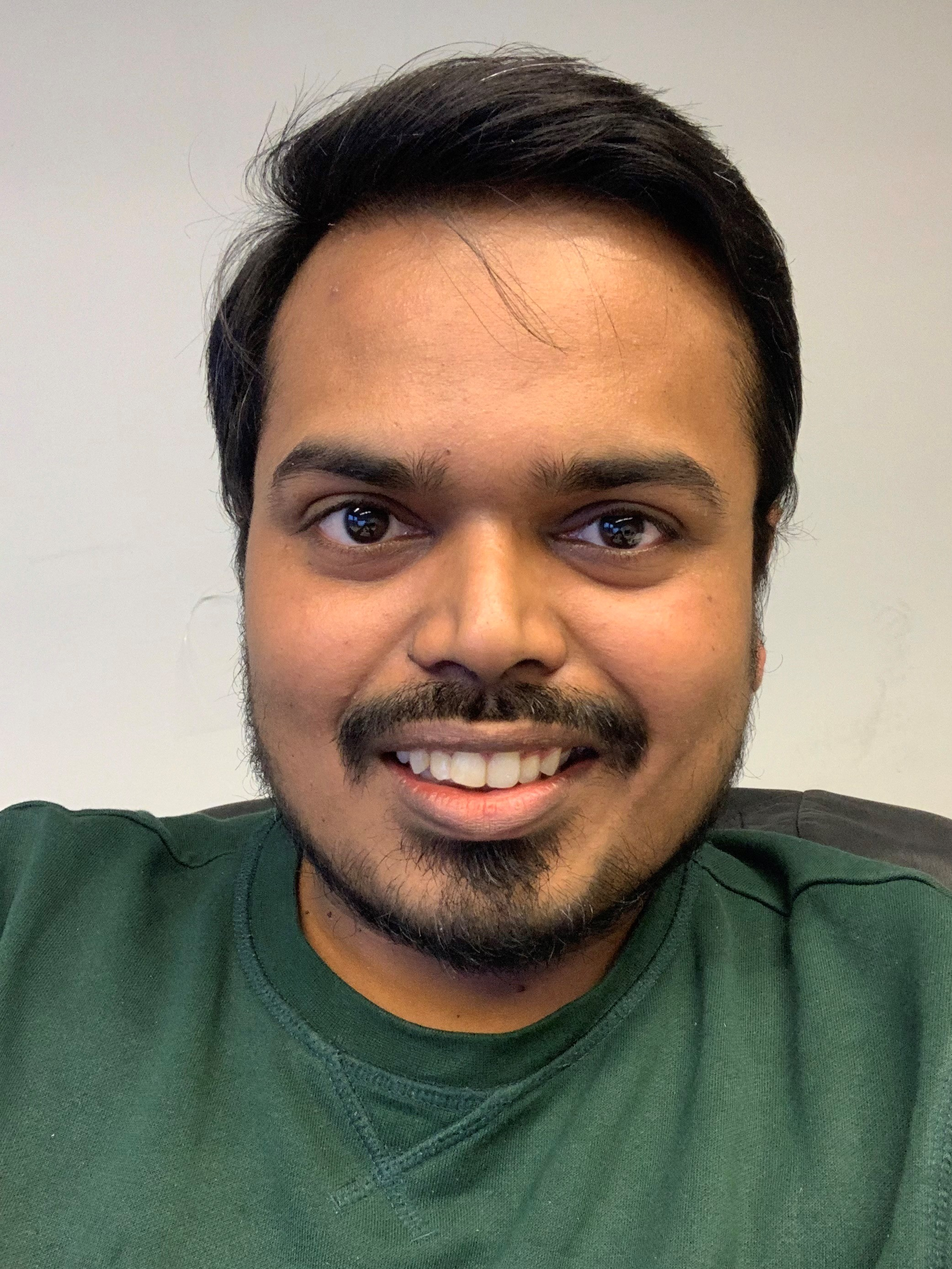
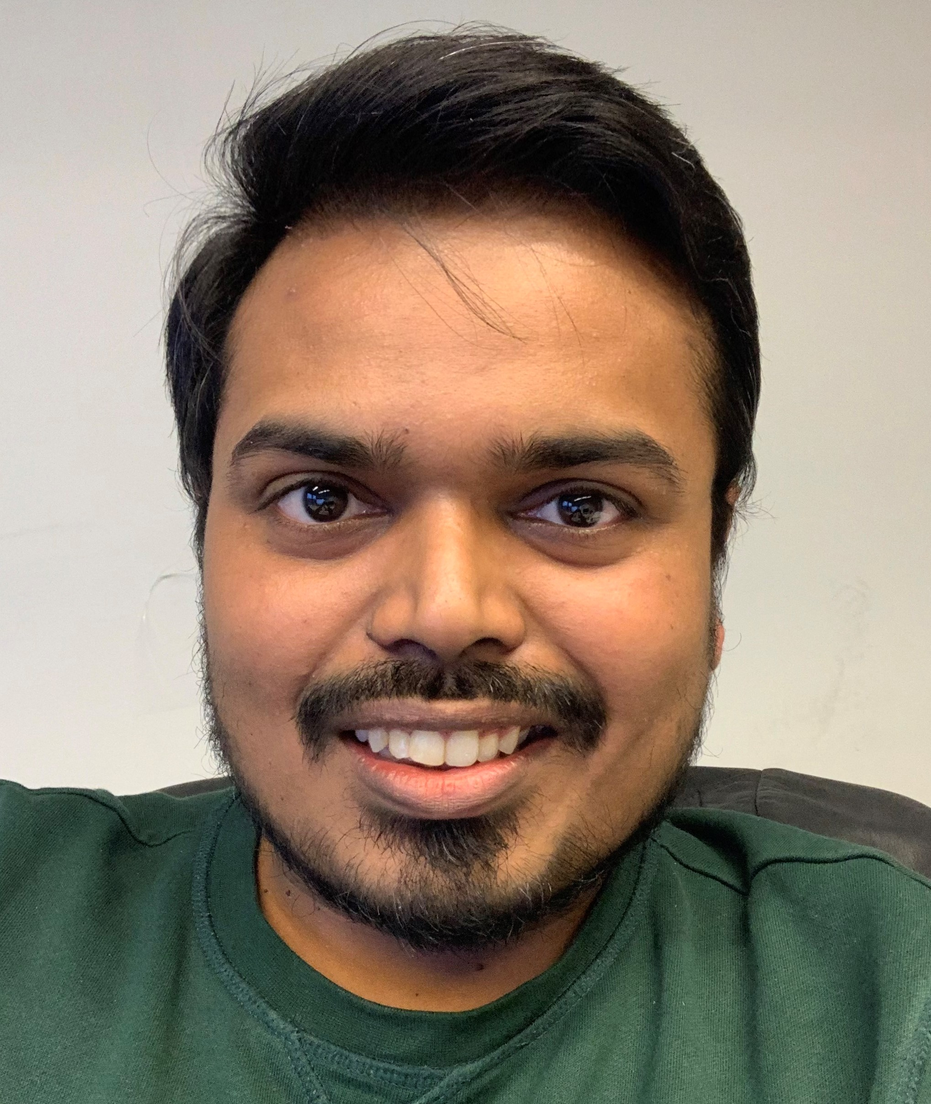
profile Update

diff --git a/publication/articled4w/index.html b/publication/articled4w/index.html
@@ -1009,7 +1009,7 @@
   <div class="media author-card content-widget-hr">
     
       
-      <a href="https://OnkaraJadhav.github.io"><img class="avatar mr-3 avatar-circle" src="/authors/admin/avatar_hua0c68d9c492ea0697d1db74b5d6e4a3f_1517692_270x270_fill_q75_lanczos_center.jpg" alt="Onkar Jadhav"></a>
+      <a href="https://OnkaraJadhav.github.io"><img class="avatar mr-3 avatar-circle" src="/authors/admin/avatar_hua8f31faf9ba0df61af456fd7a1b7699f_1102656_270x270_fill_q75_lanczos_center.jpg" alt="Onkar Jadhav"></a>
     
 
     <div class="media-body">

diff --git a/publication/articleetna/index.html b/publication/articleetna/index.html
@@ -1007,7 +1007,7 @@
   <div class="media author-card content-widget-hr">
     
       
-      <a href="https://OnkaraJadhav.github.io"><img class="avatar mr-3 avatar-circle" src="/authors/admin/avatar_hua0c68d9c492ea0697d1db74b5d6e4a3f_1517692_270x270_fill_q75_lanczos_center.jpg" alt="Onkar Jadhav"></a>
+      <a href="https://OnkaraJadhav.github.io"><img class="avatar mr-3 avatar-circle" src="/authors/admin/avatar_hua8f31faf9ba0df61af456fd7a1b7699f_1102656_270x270_fill_q75_lanczos_center.jpg" alt="Onkar Jadhav"></a>
     
 
     <div class="media-body">

diff --git a/publication/articlejmi/index.html b/publication/articlejmi/index.html
@@ -1007,7 +1007,7 @@
   <div class="media author-card content-widget-hr">
     
       
-      <a href="https://OnkaraJadhav.github.io"><img class="avatar mr-3 avatar-circle" src="/authors/admin/avatar_hua0c68d9c492ea0697d1db74b5d6e4a3f_1517692_270x270_fill_q75_lanczos_center.jpg" alt="Onkar Jadhav"></a>
+      <a href="https://OnkaraJadhav.github.io"><img class="avatar mr-3 avatar-circle" src="/authors/admin/avatar_hua8f31faf9ba0df61af456fd7a1b7699f_1102656_270x270_fill_q75_lanczos_center.jpg" alt="Onkar Jadhav"></a>
     
 
     <div class="media-body">

diff --git a/publication/conferenceecmi/index.html b/publication/conferenceecmi/index.html
@@ -1001,7 +1001,7 @@
   <div class="media author-card content-widget-hr">
     
       
-      <a href="https://OnkaraJadhav.github.io"><img class="avatar mr-3 avatar-circle" src="/authors/admin/avatar_hua0c68d9c492ea0697d1db74b5d6e4a3f_1517692_270x270_fill_q75_lanczos_center.jpg" alt="Onkar Jadhav"></a>
+      <a href="https://OnkaraJadhav.github.io"><img class="avatar mr-3 avatar-circle" src="/authors/admin/avatar_hua8f31faf9ba0df61af456fd7a1b7699f_1102656_270x270_fill_q75_lanczos_center.jpg" alt="Onkar Jadhav"></a>
     
 
     <div class="media-body">

diff --git a/publication/confpapermsc1/index.html b/publication/confpapermsc1/index.html
@@ -1008,7 +1008,7 @@
   <div class="media author-card content-widget-hr">
     
       
-      <a href="https://OnkaraJadhav.github.io"><img class="avatar mr-3 avatar-circle" src="/authors/admin/avatar_hua0c68d9c492ea0697d1db74b5d6e4a3f_1517692_270x270_fill_q75_lanczos_center.jpg" alt="Onkar Jadhav"></a>
+      <a href="https://OnkaraJadhav.github.io"><img class="avatar mr-3 avatar-circle" src="/authors/admin/avatar_hua8f31faf9ba0df61af456fd7a1b7699f_1102656_270x270_fill_q75_lanczos_center.jpg" alt="Onkar Jadhav"></a>
     
 
     <div class="media-body">

diff --git a/publication/confpapermsc2/index.html b/publication/confpapermsc2/index.html
@@ -1009,7 +1009,7 @@
   <div class="media author-card content-widget-hr">
     
       
-      <a href="https://OnkaraJadhav.github.io"><img class="avatar mr-3 avatar-circle" src="/authors/admin/avatar_hua0c68d9c492ea0697d1db74b5d6e4a3f_1517692_270x270_fill_q75_lanczos_center.jpg" alt="Onkar Jadhav"></a>
+      <a href="https://OnkaraJadhav.github.io"><img class="avatar mr-3 avatar-circle" src="/authors/admin/avatar_hua8f31faf9ba0df61af456fd7a1b7699f_1102656_270x270_fill_q75_lanczos_center.jpg" alt="Onkar Jadhav"></a>
     
 
     <div class="media-body">

diff --git a/publication/preprint/index.html b/publication/preprint/index.html
@@ -1007,7 +1007,7 @@
   <div class="media author-card content-widget-hr">
     
       
-      <a href="https://OnkaraJadhav.github.io"><img class="avatar mr-3 avatar-circle" src="/authors/admin/avatar_hua0c68d9c492ea0697d1db74b5d6e4a3f_1517692_270x270_fill_q75_lanczos_center.jpg" alt="Onkar Jadhav"></a>
+      <a href="https://OnkaraJadhav.github.io"><img class="avatar mr-3 avatar-circle" src="/authors/admin/avatar_hua8f31faf9ba0df61af456fd7a1b7699f_1102656_270x270_fill_q75_lanczos_center.jpg" alt="Onkar Jadhav"></a>
     
 
     <div class="media-body">

diff --git a/publication/preprint2/index.html b/publication/preprint2/index.html
@@ -1007,7 +1007,7 @@
   <div class="media author-card content-widget-hr">
     
       
-      <a href="https://OnkaraJadhav.github.io"><img class="avatar mr-3 avatar-circle" src="/authors/admin/avatar_hua0c68d9c492ea0697d1db74b5d6e4a3f_1517692_270x270_fill_q75_lanczos_center.jpg" alt="Onkar Jadhav"></a>
+      <a href="https://OnkaraJadhav.github.io"><img class="avatar mr-3 avatar-circle" src="/authors/admin/avatar_hua8f31faf9ba0df61af456fd7a1b7699f_1102656_270x270_fill_q75_lanczos_center.jpg" alt="Onkar Jadhav"></a>
     
 
     <div class="media-body">

diff --git a/post/getting-started-copy-2/index.html b/post/getting-started-copy-2/index.html
@@ -939,7 +939,7 @@
   <div class="media author-card content-widget-hr">
     
       
-      <a href="https://OnkaraJadhav.github.io"><img class="avatar mr-3 avatar-circle" src="/authors/admin/avatar_hua0c68d9c492ea0697d1db74b5d6e4a3f_1517692_270x270_fill_q75_lanczos_center.jpg" alt="Onkar Jadhav"></a>
+      <a href="https://OnkaraJadhav.github.io"><img class="avatar mr-3 avatar-circle" src="/authors/admin/avatar_hua8f31faf9ba0df61af456fd7a1b7699f_1102656_270x270_fill_q75_lanczos_center.jpg" alt="Onkar Jadhav"></a>
     
 
     <div class="media-body">

diff --git a/post/getting-started-copy/index.html b/post/getting-started-copy/index.html
@@ -939,7 +939,7 @@
   <div class="media author-card content-widget-hr">
     
       
-      <a href="https://OnkaraJadhav.github.io"><img class="avatar mr-3 avatar-circle" src="/authors/admin/avatar_hua0c68d9c492ea0697d1db74b5d6e4a3f_1517692_270x270_fill_q75_lanczos_center.jpg" alt="Onkar Jadhav"></a>
+      <a href="https://OnkaraJadhav.github.io"><img class="avatar mr-3 avatar-circle" src="/authors/admin/avatar_hua8f31faf9ba0df61af456fd7a1b7699f_1102656_270x270_fill_q75_lanczos_center.jpg" alt="Onkar Jadhav"></a>
     
 
     <div class="media-body">

diff --git a/post/getting-started/index.html b/post/getting-started/index.html
@@ -939,7 +939,7 @@
   <div class="media author-card content-widget-hr">
     
       
-      <a href="https://OnkaraJadhav.github.io"><img class="avatar mr-3 avatar-circle" src="/authors/admin/avatar_hua0c68d9c492ea0697d1db74b5d6e4a3f_1517692_270x270_fill_q75_lanczos_center.jpg" alt="Onkar Jadhav"></a>
+      <a href="https://OnkaraJadhav.github.io"><img class="avatar mr-3 avatar-circle" src="/authors/admin/avatar_hua8f31faf9ba0df61af456fd7a1b7699f_1102656_270x270_fill_q75_lanczos_center.jpg" alt="Onkar Jadhav"></a>
     
 
     <div class="media-body">

diff --git a/project/data4wind/index.html b/project/data4wind/index.html
@@ -977,7 +977,7 @@
   <div class="media author-card content-widget-hr">
     
       
-      <a href="https://OnkaraJadhav.github.io"><img class="avatar mr-3 avatar-circle" src="/authors/admin/avatar_hua0c68d9c492ea0697d1db74b5d6e4a3f_1517692_270x270_fill_q75_lanczos_center.jpg" alt="Onkar Jadhav"></a>
+      <a href="https://OnkaraJadhav.github.io"><img class="avatar mr-3 avatar-circle" src="/authors/admin/avatar_hua8f31faf9ba0df61af456fd7a1b7699f_1102656_270x270_fill_q75_lanczos_center.jpg" alt="Onkar Jadhav"></a>
     
 
     <div class="media-body">
